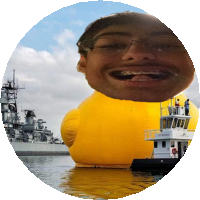
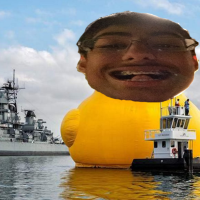
sqaure! 1 1 ! ! ! loL XD

diff --git a/src/TicketingSystem.java b/src/TicketingSystem.java
@@ -1523,7 +1523,6 @@ public class TicketingSystem extends JPanel {
 
                                 studentImage = new BufferedImage(IMAGE_SIZE, IMAGE_SIZE, BufferedImage.TYPE_INT_ARGB);
                                 Graphics2D resize = (Graphics2D) studentImage.getGraphics();
-                                resize.setClip(new Ellipse2D.Float(0, 0, IMAGE_SIZE, IMAGE_SIZE));
                                 resize.drawImage(tempImage, 0, 0, IMAGE_SIZE, IMAGE_SIZE, null);
                                 resize.dispose();
                                 
